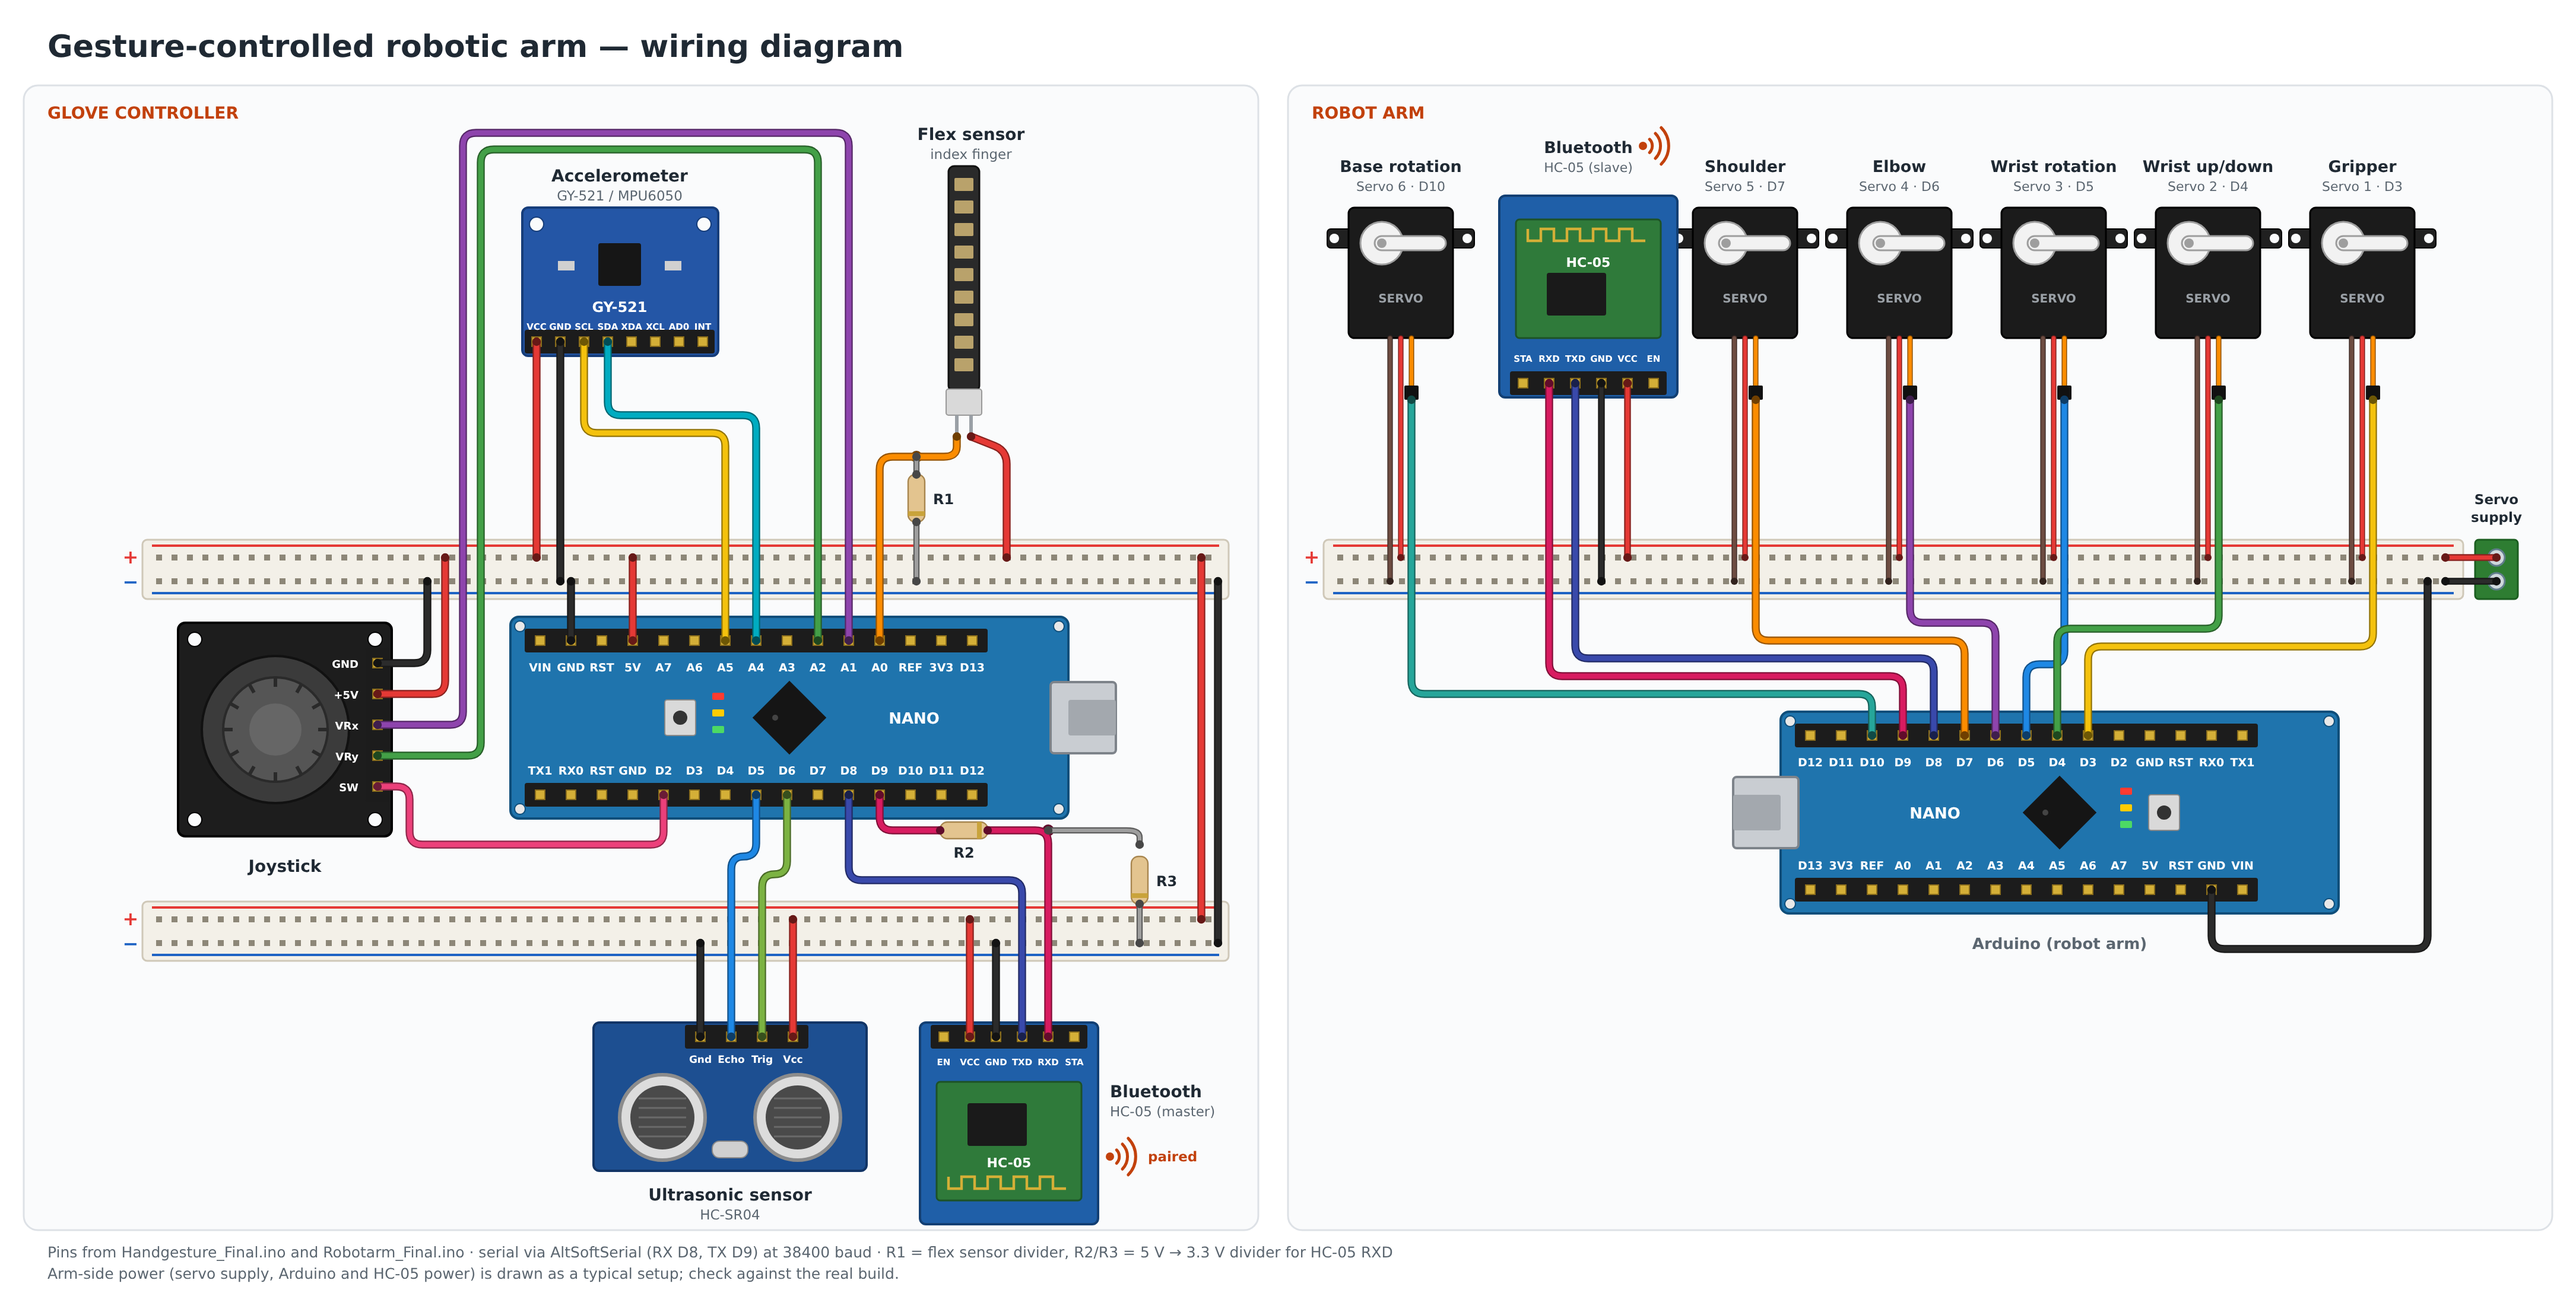
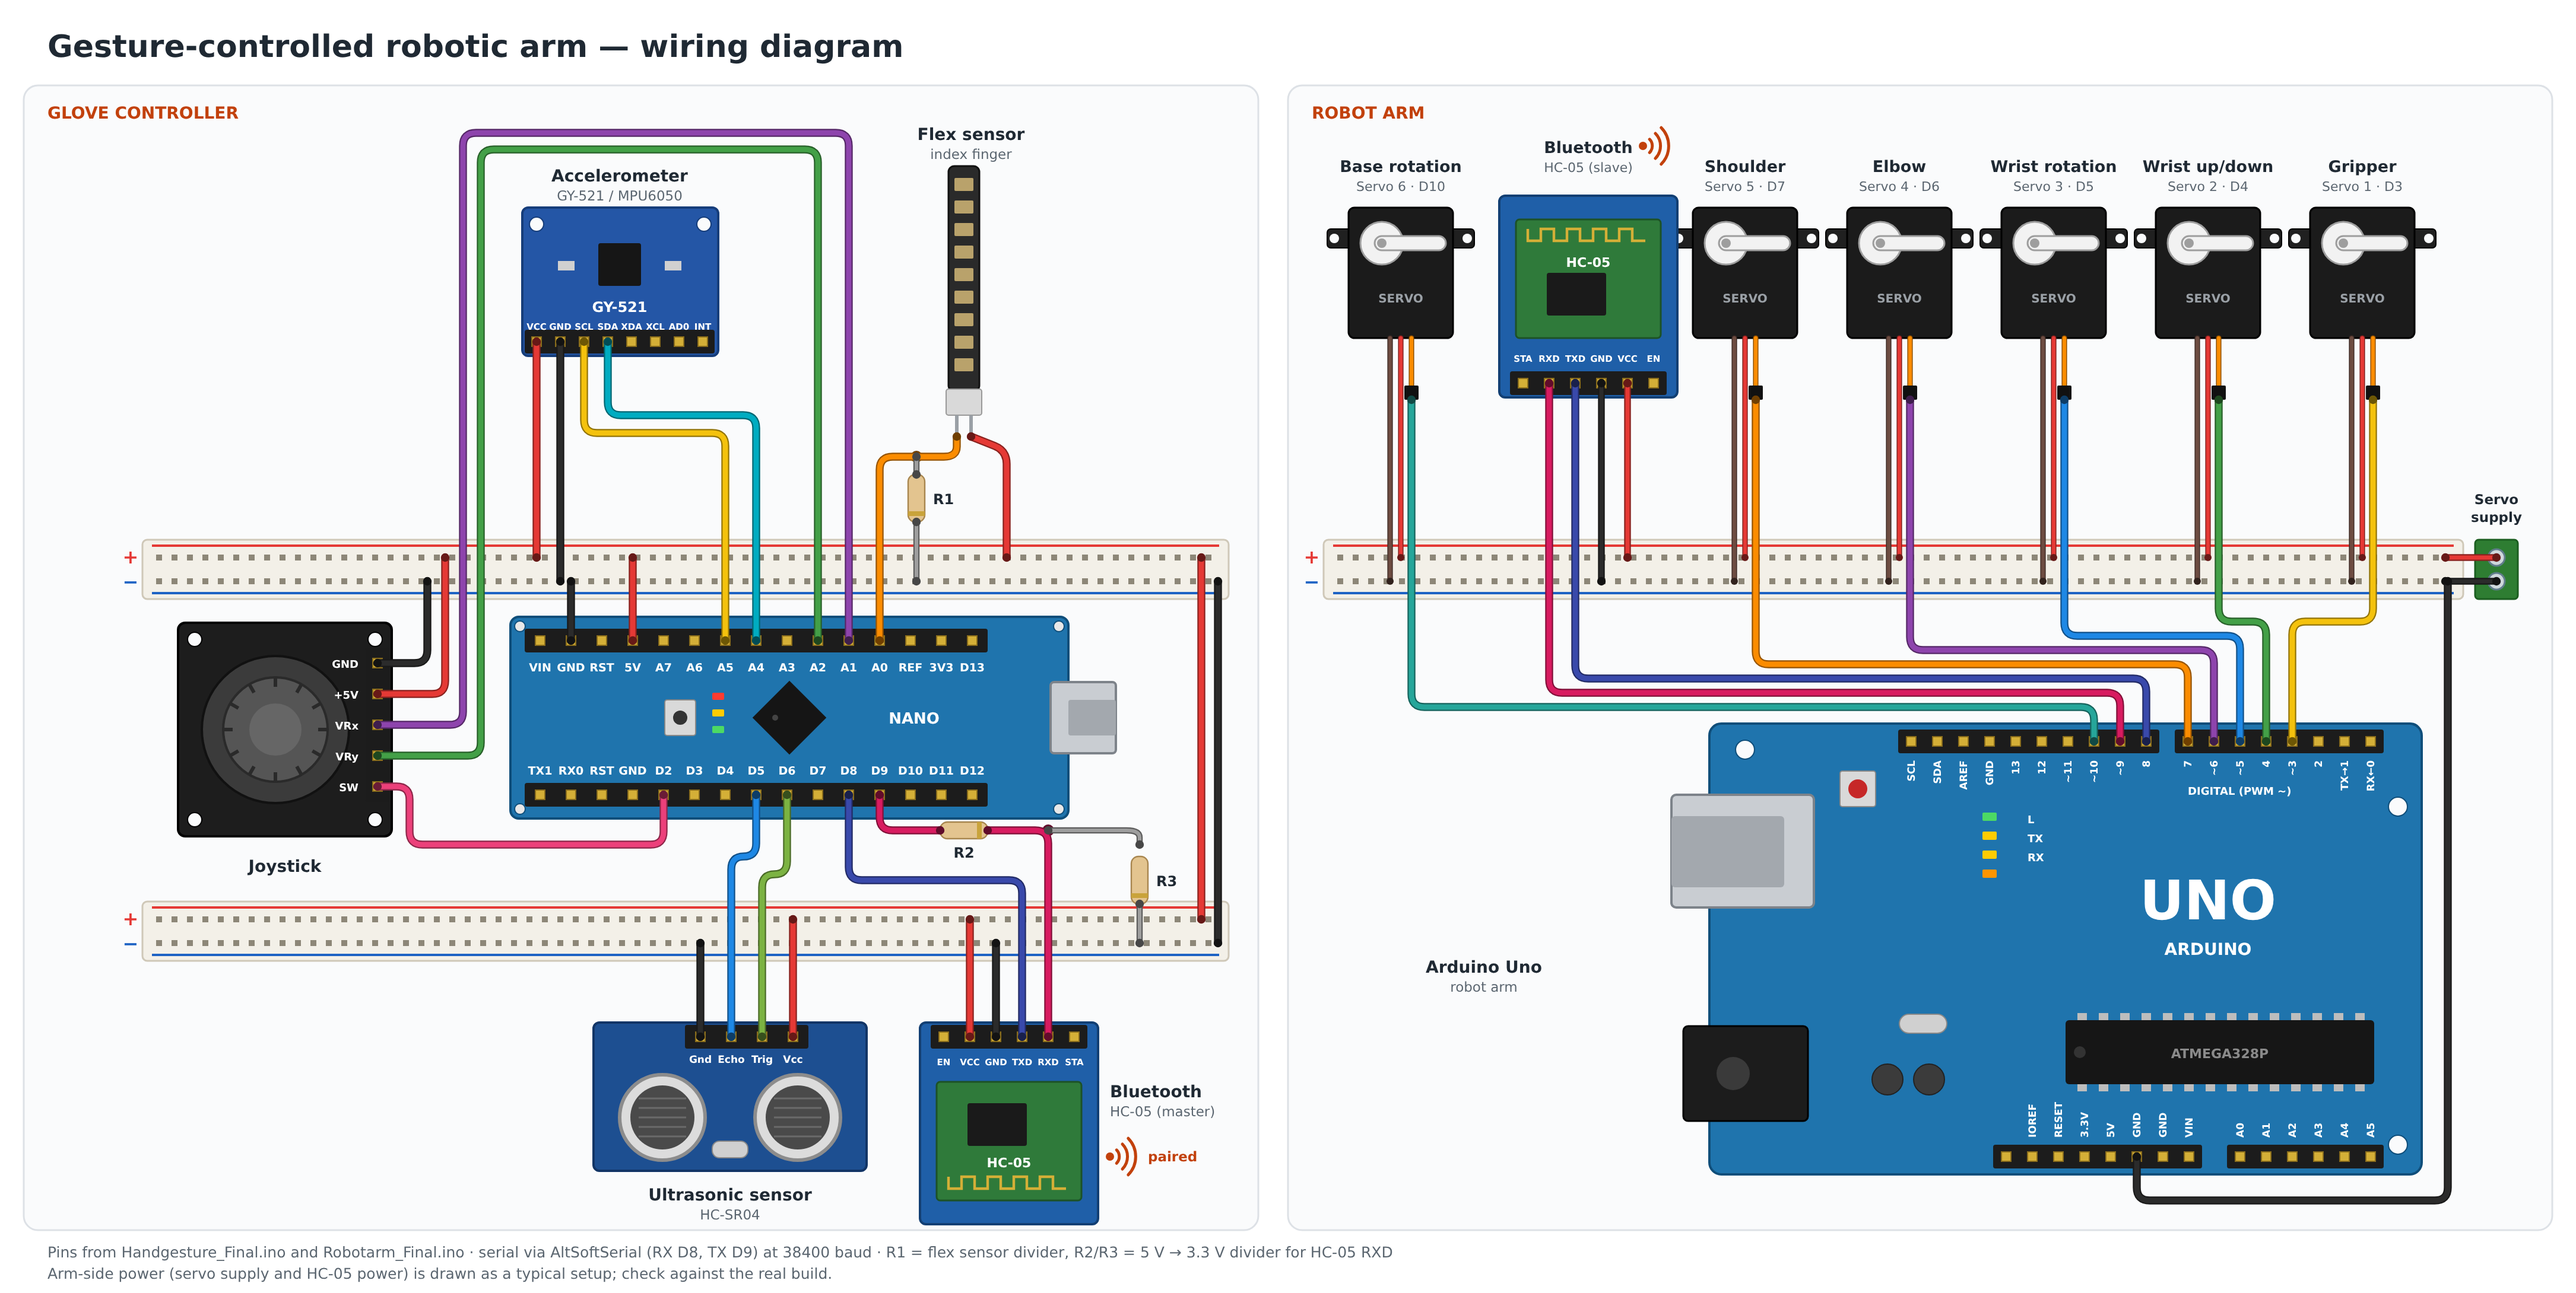
Use Arduino Uno for the robot arm in the wiring diagram (#4)

Changed region(s): [[0.5288, 0.4367, 0.9643, 0.9358], [0.1244, 0.967, 0.3422, 0.9982], [0.5599, 0.7486, 0.591, 0.7798]]

diff --git a/README.md b/README.md
@@ -18,7 +18,7 @@ A custom PCB was designed for the glove so all sensors connect neatly to the Ard
 
 The components used for this build are: 
 
-* 2x Arduino (Nano on the glove)
+* Arduino Nano (glove) and Arduino Uno (robot arm)
 * 2x HC-05 Bluetooth modules
 * GY-521 (MPU6050) accelerometer/gyroscope
 * Flex sensor
